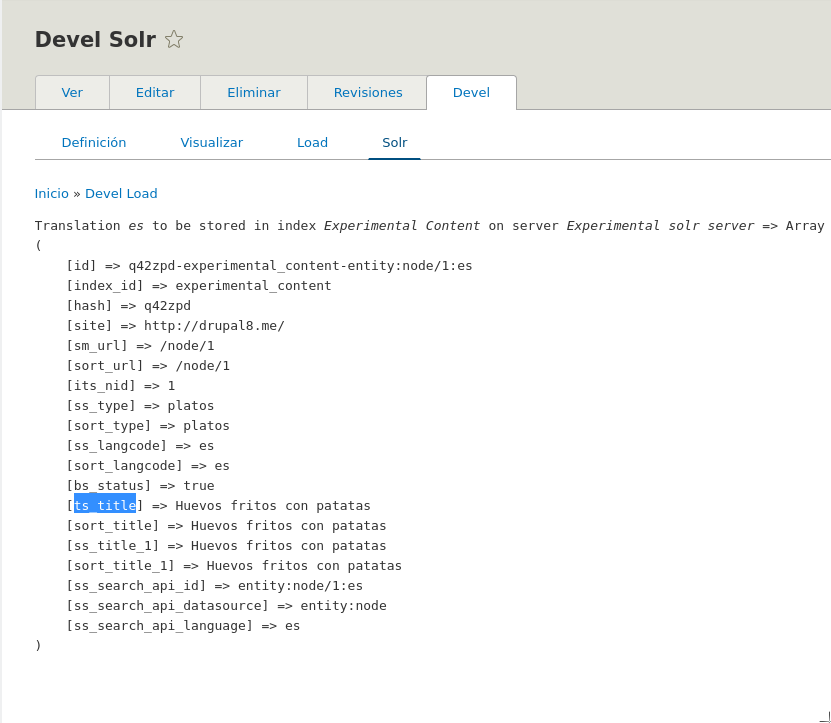
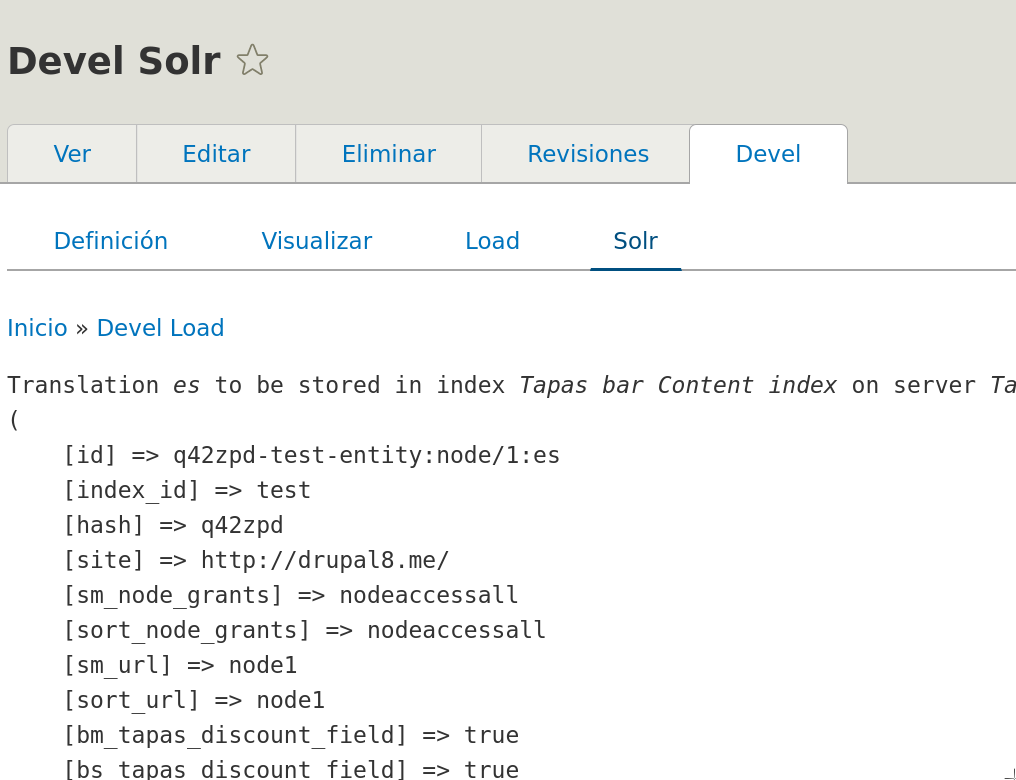
Clean

diff --git a/index.html b/index.html
@@ -151,19 +151,8 @@
 				<section class="history.contribute">
 					<h3>¡Contribuye!</h3>
 					<p>Empieza por la Documentación</p>
-					<table class="xsmall">
-						<tbody>
-						<tr>
-							<td style="vertical-align: top"><a href="https://www.drupal.org/docs/7/modules/search-api">
-								https://www.drupal.org/docs/7/modules/search-api
-							</a><img src="assets/history/drupal7-search-api-documentation.png"  width="100%"/></td>
-							<td style="vertical-align: top"><a href="https://www.drupal.org/docs/8/modules/search-api">
-								https://www.drupal.org/docs/8/modules/search-api
-							</a><img src="assets/history/drupal8-search-api-documentation.png"  width="100%"/>
-							</td>
-						</tr>
-						</tbody>
-					</table>
+							<a href="https://www.drupal.org/docs/7/modules/search-api">https://www.drupal.org/docs/7/modules/search-api</a>
+							<a href="https://www.drupal.org/docs/8/modules/search-api">https://www.drupal.org/docs/8/modules/search-api</a>
 				</section>
 				<!-- @endsection -->
 
@@ -232,14 +221,14 @@
 				<!-- @section PAGINA NO ELEMENTOS -->
 				<section class="page-search.no-elements">
 					<h3>Y si... ¿sólo tenemos este elemento?</h3>
-					<img src="assets/busqueda/apachesolr_module_page_clear.jpg" width="70%">
+					<img src="assets/busqueda/search-box.png" width="100%">
 				</section>
 				<!-- @endsection -->
 
 				<!-- @section PAGINA NO ELEMENTOS -->
 				<section class="page-search.tapas-bar-example">
 					<h3>¿Qué almacenamos y cómo para ofrecer buenos resutlados?</h3>
-					<img src="assets/busqueda/tapas-bar-ejemplo-01.png">
+					<img src="assets/busqueda/search-platos-example.png">
 				</section>
 				<!-- @endsection -->
 
@@ -252,7 +241,8 @@
 				<!-- @section EQUILIBRIO -->
 				<section class="search.balance">
 					<h3>Devolver todos los documentos relevantes y nada más</h3>
-					<p class="left"><em>Search API Solr y Drupal lo hacen muy bien "Out of the box", pero pequeñas diferencias en la configuración importan.</em></p>
+					<p class="left">Search API Solr y Drupal lo hacen muy bien "Out of the box".</p>
+					<p class="left">Pequeñas diferencias en la configuración importan.</p>
 				</section>
 				<!-- @endsection -->
 
@@ -277,8 +267,7 @@
 
 				<!-- @section FULL TEXT -->
 				<section class="search.full-text">
-					<h3 style="font-variant-caps: all-small-caps">Campos "FullText"</h3>
-					<p class="small">Análisis léxico, morfológico y relevancia</p><hr>
+					<h4>Campos "FullText"</h4>
 					<div>
 						<p>"¿Hay huevos fritos con papas?"</p>
 						🡓
@@ -298,42 +287,47 @@
 				<!-- @section SEARCH API SOLR CONFIG-->
 				<section class="chapter-start search-api-solr-config">
 					<h2>Configuración de Search API Solr</h2>
-					<img src="assets/install/config-index-init.png">
 				</section>
 				<!-- @endsection -->
 
 
 				<!-- @section Herramientas Diagrama -->
 				<section class="search-api-solr-config.install">
-					<h3>Instalación</h3>
-					<p class="xsmall left">Debes tener instalado un servidor <a href="http://lucene.apache.org/solr/">Solr</a>, el módulo <em>search</em> (/admin/modules) del core desinstalado, módulo Search API Solr instalado (usa <a href="https://www.drupal.org/documentation/install/composer-dependencies">composer</a> para instalarlo porque necesitamos Solarium) y los archivos de configuración añadidos al servidor Solr (/search_api_solr/solr-conf/
-						)</p>
+					<h3>Primero instalación</h3>
+					<div class="left">
 					<ol>
-						<li>Servidor / Backend / Connector</li>
-						<li>Índice / Servidor / Datasources</li>
-						<li>Campos a indexar</li>
-						<li>Procesadores</li>
-						<li>Vista para buscar contenido y mostrar resultado</li>
+						<li>Debes tener instalado un servidor <a href="http://lucene.apache.org/solr/">Solr</a></li>
+						<li>Módulo Search del core, desinstalado</li>
+						<li>Módulo Search API Solr instalado</li>
 					</ol>
+					</div>
+					<p>Usa <a href="https://www.drupal.org/documentation/install/composer-dependencies">composer</a>. Recuerda que Solarium es una dependencia ahora.</p>
 				</section>
 				<!-- @endsection -->
 
+				<section class="search-api-solr-config.install">
+					<h3>Panel de configuración</h3>
+					<ol>
+						<li>Servidor -> Backend -> Connector</li>
+						<li>Índice -> Datasources -> Servidor</li>
+						<li>Índice -> Campos</li>
+						<li>Índice -> Procesadores</li>
+						<li>Vista -> Búsqueda y Resultados</li>
+					</ol>
+				</section>
 
 				<section class="search-api-solr-config.step-01">
-					<p class="xxsmall">Paso 1</p>
-					<h4>Server / Backend</h4>
+					<h4>Servidor -> Backend</h4>
 					<img src="assets/install/add-server-custom.png">
 				</section>
 
 				<section class="search-api-solr-config.step-02">
-					<p class="xxsmall">Paso 2</p>
-					<h4>Connector</h4>
+					<h4>Backend -> Connector</h4>
 					<img src="assets/install/add-server-connector.png">
 				</section>
 
 				<section class="search-api-solr-config.step-03">
-					<p class="xxsmall">Paso 3</p>
-					<h4>Drupal apunta a Solr</h4>
+					<h4>Drupal -> Solr</h4>
 					<table>
 						<tr>
 							<td class="xsmall featured" style="vertical-align: top;">:8983/solr/#/~cores/tapas_bar<br><img src="assets/install/solr-core-admin.png" width="100%"></td>
@@ -343,11 +337,10 @@
 				</section>
 
 				<section class="search-api-solr-config.step-04">
-					<p class="xxsmall">Paso 4</p>
 					<h4>Comprobamos archivos</h4>
 					<table>
 						<tr>
-							<td class="xsmall featured" style="vertical-align: top;">:8983/solr/#/tapas_bar/files<br><img src="assets/install/solr-files-admin.png" width="100%"></td>
+							<td class="xsmall featured" style="vertical-align: top;">:8983/solr/#/tapas_bar/files<br><img src="assets/install/solr-files-admin-02.png" width="100%"></td>
 							<td class="xsmall featured" style="vertical-align: top;">admin/config/search/search-api/server/experimental_solr_server/files<br><img src="assets/install/add-server-check.png"></td>
 						</tr>
 					</table>
@@ -356,88 +349,72 @@
 
 
 				<section class="search-api-solr-config.step-05">
-					<p class="xxsmall">Paso 5</p>
-					<h4>Crear índice</h4>
+					<h4>Índice -> Datasources</h4>
 					<img src="assets/install/add-index.png">
 				</section>
 
 				<section class="search-api-solr-config.step-06">
-					<p class="xxsmall">Paso 6</p>
-					<h4>Configurar data source</h4>
+					<h4>Índice -> Server</h4>
 					<img src="assets/install/configure-datasource-server.png">
 				</section>
 
 
 				<section class="search-api-solr-config.step-07">
-					<p class="xxsmall">Paso 7</p>
 					<h4>Opciones del índice</h4>
-					<p class="xsmall left">Debemos tener en cuenta las implicaciones que tiene Indexar los "items" inmediatamente. Por un lado implica mayor seguridad ya que los resultados de las búsquedas no muestran elementos desactualizados, por otro puede ser una sobrecarga cuando hacemos operaciones con muchos elementos.</p>
-					<img src="assets/install/install-index-options.png">
+					<p >Valora la seguridad antes de elegir la opción</p><img src="assets/install/install-index-options.png">
 				</section>
 
 
 				<section class="search-api-solr-config.step-08">
-					<p class="xxsmall">Paso 8</p>
-					<h4>Añadir campos al índice</h4>
+					<h4>Índice -> Campos</h4>
 					<img src="assets/install/add-fields-empty.png">
 				</section>
 
 				<section class="search-api-solr-config.step-09">
-					<p class="xxsmall">Paso 9</p>
 					<h4>Muy resumido</h4>
-					<img src="assets/install/nodo-documento.png">
-					<div class="xsmall">
-						<p class="left">Estamos en un punto intermedio, vamos a decir al índice la información que queremos indexar.</p>
-						<p class="left">Esta información viene definida por "propiedades" (property path) y agrupada por los Datasources seleccionados (más procesadores).</p>
-						<p class="left">Podemos añadir al índice uno o más campos por cada propiedad.</p>
-					</div>
+					<p>Aqui estamos</p>
+					<img src="assets/install/nodo-documento.png" width="100%">
+					<p>Tierras de items, data sources, campos, processors...</p>
 				</section>
 
 				<section class="search-api-solr-config.step-10">
-					<p class="xxsmall">Paso 10</p>
 					<h4>Campos añadidos</h4>
-					<p class="xxsmall left">Seleccionamos tipo Fulltext si queremos poder buscar entre sus palabras y un boost si queremos darle más relevancia.<br><em>@NOTE:</em> Campo títle indexado dos veces (misma propiedad, dos campos a indexar).</p>
+					<p>Podemos añadir dos campos desde una misma propiedad</p>
 					<img src="assets/install/index-fields-added.png" width="80%">
 				</section>
 
 				<section class="search-api-solr-config.step-11">
-					<p class="xxsmall">Paso 11</p>
 					<h4>Comprobar - Módulo Devel</h4>
-					<p class="xsmall left">Antes de nada, puedes activar el módulo <a href="https://www.drupal.org/project/devel">Devel</a> y comprobar (en un nodo) cómo se van a mapear los campos que has añadido. Solr usa <em>"{PREFIX}s_*"</em> y <em>"{PREFIX}m_*"</em> en su nomenclatura (por ahora no te preocupes, indica tipo y cardinanlidad del campo).</p>
+					<p>Activa el módulo <a href="https://www.drupal.org/project/devel">Devel</a> y comprueba como se mapean los campos.</p>
 					<img src="assets/install/devel-node-solr.png" width="60%">
 				</section>
 
 
 				<section id="search-api-solr-config.step-12" class="search-api-solr-config.step-12">
-					<p class="xxsmall">Paso 12</p>
-					<h4>Configurar Procesadores</h4>
-					<p class="xsmall left">Es una de las herramientas más potentes, por ahora vamos a activar los menos posibles. Algunos pueden interferir con "procesadores" de Solr.<br>Por lo general los procesadores añaden "propiedades" o alteran valores de campos (en distintas etapas del proceso).</p>
+					<h4>Índice -> Procesadores</h4>
+					<p class="xsmall left">Por lo general los procesadores añaden "propiedades" o alteran valores de campos en distintas etapas del proceso.</p>
 					<img src="assets/install/index-processors.png" width="60%">
 				</section>
 
 				<section class="search-api-solr-config.step-13">
-					<p class="xxsmall">Paso 13</p>
 					<h4>Indexamos</h4>
 					<p class="xsmall left">Search API Solr incluye el módulo <em>search_api_solr_defaults</em>, donde parte de la configuración la tienes hecha, incluyendo una vista por defecto.</p>
 					<img src="assets/install/indexing-admin.png" width="100%">
 				</section>
 
 				<section class="search-api-solr-config.step-14">
-					<p class="xxsmall">Paso 14</p>
 					<h4>Añadimos vista</h4>
 					<img src="assets/install/add-view.png" width="100%">
 				</section>
 
 
 				<section class="search-api-solr-config.step-15">
-					<p class="xxsmall">Paso 15</p>
 					<h4>Configuramos vista</h4>
 					<p class="xxsmall left">No cacheamos. Añadimos filtro expuesto de "Full text search" y lo configuramos para que no admita menos de dos caracteres y seleccionamos los campos sobre los que queremos buscar. Ordenamos por relevancia DESC (podemos añadir después fecha DESC por ejemplo), configuramos permisos de acceso, filtramos por tipo de contenido y por estado del contenido (publicado o no). Añadimos resumen de resultados en la cabecera y texto cuando no hay resultados.</p>
 					<img src="assets/install/views-admin-configuration.png" width="100%">
 				</section>
 
 				<section class="search-api-solr-config.step-16">
-					<p class="xxsmall">Paso 16</p>
 					<h4>Comprobamos</h4>
 					<p class="small">Yeahhh!!!!</p>
 					<img src="assets/install/view-platos-results-simple.png" width="100%">
@@ -446,9 +423,9 @@
 
 				<section class="search-api-solr-config.step-17">
 					<h4>Demo</h4>
+					<p class="small">Hay técnicas para solventar este resultado</p>
 					<p class="small">#fail</p>
-					<p class="xxsmall left">Con los procesadores (<a href="#/search-api-solr-config.step-12">Paso 12</a>) por defecto de Search API podemos solucionar este problema, pero vamos a configurar Solr para que lo haga él.<br>Queremos eliminar los signos de interrogación y las palabras comunes como "Hay" o "con". Además queremos añadir "papas" como sinónimo de patatas.</p>
-					<img src="assets/install/demo-fail.png" width="90%">
+					<img src="assets/install/demo-fail.png" width="70%">
 				</section>
 
 				<!-- @section SEARCH API SOLR CONFIG-->
@@ -503,11 +480,9 @@
 				</section>
 
 				<section class="solr-config.step-01">
-					<p class="xxsmall">Paso 1</p>
 					<h4>Nuevo tipo de campo en solr</h4>
-					<p class="xsmall">schema_extra_types.xml</p>
-					<p class="xxsmall left">Los textos resaltados con extentisón ".txt" son los que puedes "Tunear", sólo tienes que decirle a tu campo dónde están.</p>
-					<p class="xxsmall left">Cada filter y tokenizer que ves, es parecido a los procesadores de Search API, por eso no debemos activar muchos procesadores en Drupal, Solr ya procesa el texto de la forma que queramos nosotros.</p>
+					<p class="small">schema_extra_types.xml</p>
+					<p class="xsmall left">Cada filter y tokenizer que ves, es parecido a los procesadores de Search API, por eso no debemos activar muchos procesadores en Drupal, Solr ya procesa el texto de la forma que queramos nosotros.</p>
 					<pre><code class="xxsmall" data-trim data-noescape>
 &lt;fieldType name=&quot;text_tapas_bar&quot; class=&quot;solr.TextField&quot; positionIncrementGap=&quot;100&quot;&gt;
     &lt;analyzer type=&quot;index&quot;&gt;
@@ -537,9 +512,8 @@
 				</section>
 
 				<section class="solr-config.step-02">
-					<p class="xxsmall">Paso 2</p>
 					<h4>Crear campos dinámicos asociados a ese tipo</h4>
-					<p class="xsmall">schema_extra_fields.xml</p>
+					<p class="small">schema_extra_fields.xml</p>
 					<pre><code class="xxsmall" data-trim data-noescape>
 &lt;dynamicField name=&quot;tbars_*&quot; type=&quot;text_tapas_bar&quot; indexed=&quot;true&quot; stored=&quot;true&quot; multiValued=&quot;false&quot; termVectors=&quot;true&quot;/&gt;
 &lt;dynamicField name=&quot;tbarm_*&quot; type=&quot;text_tapas_bar&quot; indexed=&quot;true&quot; stored=&quot;true&quot; multiValued=&quot;true&quot; termVectors=&quot;true&quot;/&gt;
@@ -548,7 +522,6 @@
 				</section>
 
 				<section class="solr-config.step-03">
-					<p class="xxsmall">Paso 3</p>
 					<h4>Recargamos el core y comprobamos si aparece nuestro campo</h4>
 					<p class="xxsmall featured">:8983/solr/#/tapas_bar/schema</p>
 					<img src="assets/install/solr-admin-schema.png" width="70%">
@@ -556,7 +529,6 @@
 
 
 				<section class="solr-config.step-04">
-					<p class="xxsmall">Paso 4</p>
 					<h4>Pequeño análisis de nuestro campo</h4>
           <p class="xxsmall featured">:8983/solr/#/tapas_bar/analysis</p>
 					<p class="xsmall">Puedes comprobar directamente en Solr cómo se va a indexar y a buscar tu campo.<br>¡Es muy útil!</p>
@@ -612,7 +584,7 @@ return parent::supportsDataType($type) | $type == 'text_tapas_bar';
 				<!-- @endsection -->
 
 				<section class="solr-config.datatype">
-					<h4>Damos de alta el "data type" en Drupal</h4>
+					<h4>Extendemos el DataTypePluginBase</h4>
 					<pre><code class="xxsmall" data-trim data-noescape>
 namespace Drupal\tapas_bar_solr\Plugin\search_api\data_type;
 use Drupal\search_api\DataType\DataTypePluginBase;
